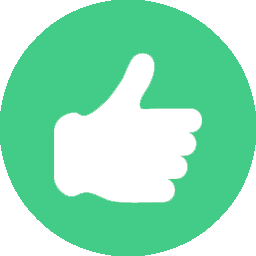
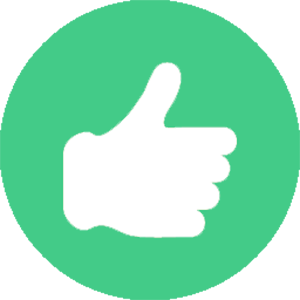
More facelifting

diff --git a/client/presentationView/saved_presentations.html b/client/presentationView/saved_presentations.html
@@ -1,43 +1,25 @@
-<!-- <template name="savedPresentations">
-<div class="ui segment savedPresentations">
-<div class="ui divided list">
-<div class="item">
-<div class="right floated compact ui button">Review Presentation</div>
-<div class="right floated compact ui button">Begin Presentation</div>
-<div class="left content">
-<div class="header">Presentation Name 1</div>
-</div>
-</div>
-<div class="item">
-<div class="right floated compact ui button">View</div>
-<div class="content">
-<div class="header">Presentation Name 2</div>
-</div>
-</div>
-</div>
-</div>
-</template> -->
 
 <!-- add button to start new session. To view, just go to slides/route
   else, do sessions/route -->
 
   <template name="Presentations">
-    <div class="ui segment savedPresentations">
-      <div class="ui divided list">
-        <div class="panel panel-default">
-          {{#each decks}}
-          <div class="panel-body">
-            <div class="item">
-              <div class="content">
-                <div class="header" id="Title"> <h1>{{title}}</h1></div>
-              </div>
-              <div class="right floated compact btn btn-primary" id="reviewPresentation">Slide Viewer </div>
-              <div class="right floated compact btn btn-info " id="beginPresentation"> Begin Presentation</div>
-            </div>
-          </div>
+    <div id="presentation-list" class="container">
+      <div class="ui segment savedPresentations">
+        <div class="ui divided list">
 
-          {{/each}}
-        </div>
+            {{#each decks}}
+            <div class="panel-body">
+              <div class="item">
+                <div class="content">
+                  <div class="header" id="Title"> <h1>{{title}}</h1></div>
+                </div>
+                <div class="right floated compact btn btn-primary" id="reviewPresentation">Slide Viewer </div>
+                <div class="right floated compact btn btn-info " id="beginPresentation"> Begin Presentation</div>
+              </div>
+            </div>
+            {{/each}}
+
+          </div>
       </div>
     </div>
   </template> 

diff --git a/client/presentationView/make_presentation.html b/client/presentationView/make_presentation.html
@@ -1,14 +1,16 @@
-
 <template name="createPresentation">
- <form id="mdRawForm" class="form">
-    <p class="columnPosition">Column Position: {{colPosition}}</p>
-    <p class="rowPosition">Row Position: {{rowPosition}}</p>
-    <div class="form-group">
-      <label for="exampleInputPassword1">Create Your Markdown</label>
-      <textarea class="form-control textEditor markDownText" rows="20"></textarea>
-    </div>
-    <button class="btn btn-success newColumn">+Col</button>
-    <button class="btn btn-success newRow">+Row</button>
-    <button class="btn btn-success createBtn">Publish</button>
-  </form>
+  <div class="container">
+    <form id="mdRawForm" class="form">
+      <p class="columnPosition">Column Position: {{colPosition}}</p>
+      <p class="rowPosition">Row Position: {{rowPosition}}</p>
+      <div class="form-group">
+        <label for="exampleInputPassword1"> Type slide markdown here</label>
+        <textarea  id="mdRawTextArea" class="form-control textEditor" rows="20"></textarea>
+        <p class="help-block">Separating slides with * * *. For an online markdown editor, use http://dillinger.io/</p>
+      </div>
+      <button class="btn btn-success newColumn">+Col</button>
+      <button class="btn btn-success newRow">+Row</button>
+      <button class="btn btn-success createBtn">Publish</button>
+    </form>
+  </div>
 </template>

diff --git a/client/homeView/featurettes.html b/client/homeView/featurettes.html
@@ -1,11 +1,11 @@
 <template name="featurettes">
 
-  <hr class="featurette-divider">
+  <!-- <hr class="featurette-divider"> -->
 
   <div class="row featurette">
     <div class="col-md-7">
       <h2 class="featurette-heading">Make and Save Decks Online</h2>
-      <p class="lead">Leopard Spot is a cloud-based solution for making and saving simple, beautiful presentations. Every user can make and save presentations online, then share with an audience. The audience can view slides on whatever device they choose, but only the presenter can control the flow.</p>
+      <p class="lead">Leopard Spot is a cloud-based solution for making simple, beautiful markdown presentations. The audience can view slides on whatever device they choose, but only the presenter can control the flow.</p>
     </div>
     <div class="col-md-5">
       <img class="featurette-image img-responsive" src="/assets/cloud.png">

diff --git a/client/slidesView/slides.html b/client/slidesView/slides.html
@@ -10,16 +10,16 @@
   {{/markdown}}
   </div>
   <div id="qrcode"></div>
-    {{#if isPresentor}}
-    <div id="#controller">
-      <div class="ui button" id="prev">prev</div>
-      <div class="ui button" id="next">next</div>
-    </div>
-    {{/if}}
-    <div class="ui button" id="poll">quickPoll</div>
-    
-    <div class="ui button" id="thumbcheck">
-      <i class="thumbs up icon"></i>
-    </div>
+  {{#if isPresentor}}
+  <div id="#controller">
+    <div class="ui button" id="prev">prev</div>
+    <div class="ui button" id="next">next</div>
+  </div>
+  {{/if}}
+  <div class="ui button" id="poll">quickPoll</div>
+  
+  <div class="ui button" id="thumbcheck">
+    <i class="thumbs up icon"></i>
+  </div>
   
 </template>

diff --git a/client/stylesheets/themes/redMads.css b/client/stylesheets/themes/redMads.css
@@ -21,12 +21,31 @@ a:hover, button:hover {
   color: #53D09B;
 }
 
+form {
+  margin-top: 60px;
+}
+
+#presentation-list {
+  margin-top: 60px;
+}
+
+/*.panel-body {
+  float: left;
+  border: none;
+}*/
+
+img {
+  height: 300px;
+  width: 300px;
+}
+
 /* CUSTOMIZE THE NAVBAR
 -------------------------------------------------- */
 .navbar {
   border-radius: 0px;
   margin-bottom: 0px;
-  /*position: absolute;*/
+  background: #40cb90;
+  border: none;
 }
 
 /* Special class on .container surrounding .navbar, used for positioning it into place. */
@@ -56,10 +75,6 @@ a:hover, button:hover {
 #main-header {
   font-size: 1.6em;
   color: white;
-}
-
-#main-header:hover {
-  color: #40cb90;
 }
 
 /* CUSTOMIZE THE CAROUSEL

diff --git a/client/homeView/navbar.html b/client/homeView/navbar.html
@@ -18,6 +18,8 @@
       <!-- Collect the nav links, forms, and other content for toggling -->
       <div class="collapse navbar-collapse" id="bs-example-navbar-collapse-1">
         <ul class="nav navbar-nav navbar-right">
+          <li><a href="{{pathFor 'createPresentation'}}">Make presentation</a></li>
+          <li><a href="{{pathFor 'Presentations'}}">View presentations</a></li>
           <li>
             {{#if currentUser}}
               <a class="item" id="logout">

diff --git a/client/homeView/intro.html b/client/homeView/intro.html
@@ -1,8 +1,8 @@
 <template name="intro">
   {{> carousel}}
   <div class="container">
-    {{> columns}}
-    <!-- {{> featurettes}} -->
+    <!-- {{> columns}} -->
+    {{> featurettes}}
     {{> footer}}
   </div>
 

diff --git a/client/loginView/sign_up.html b/client/loginView/sign_up.html
@@ -1,6 +1,6 @@
 <template name="signup">
 
-  <div class="ui large form segment signup">
+  <div class="ui large form segment signup container">
     {{> atForm}}
   </div>
 

diff --git a/client/loginView/login.html b/client/loginView/login.html
@@ -1,6 +1,6 @@
 <template name="login">
 
- <div class="ui large form segment">
+ <div class="ui large form segment container">
   {{> atForm}}
  </div> 
 

diff --git a/client/slidesView/slideLayout.html b/client/slidesView/slideLayout.html
@@ -1,5 +1,3 @@
 <template name="slideLayout" >
-
   {{> yield}}
-
 </template>
